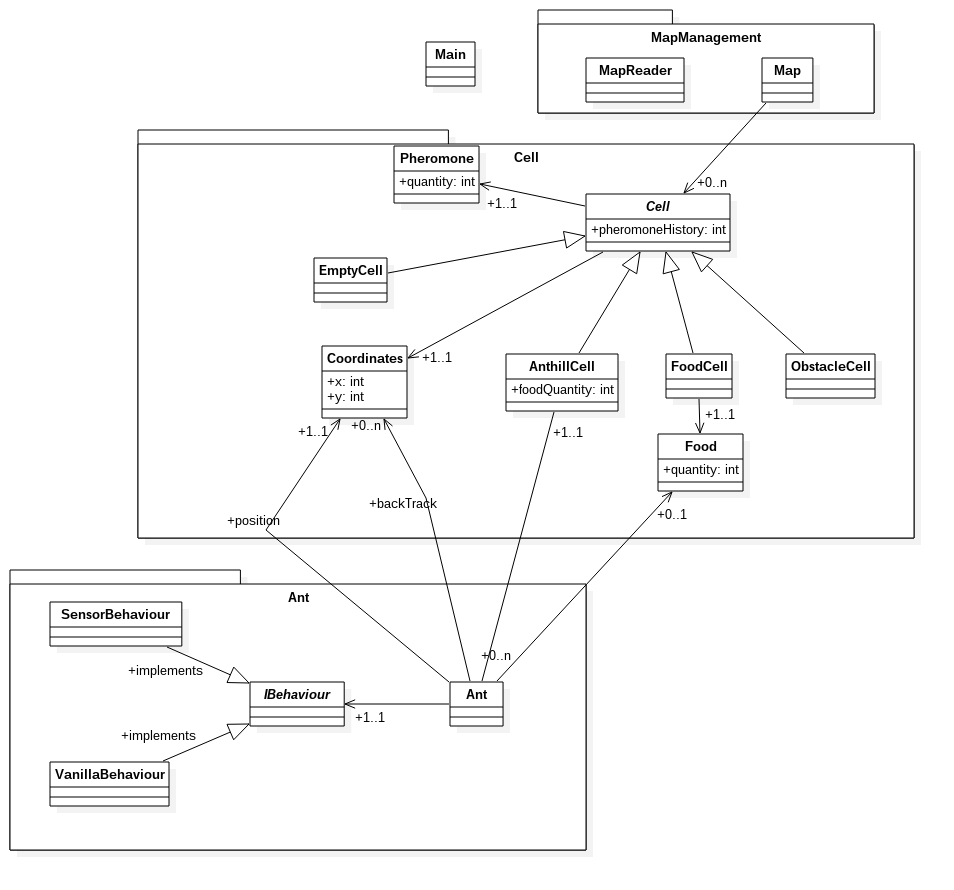
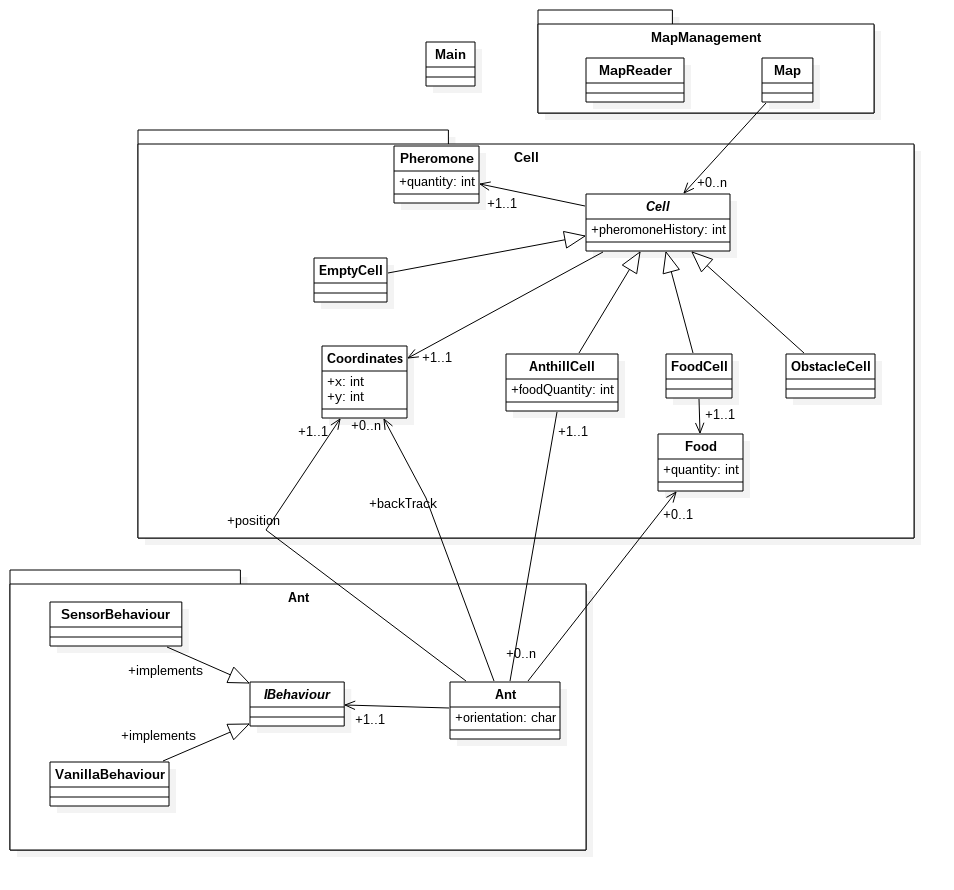
Ajout orientation ant

diff --git a/src/Ant/Ant.java b/src/Ant/Ant.java
@@ -6,6 +6,7 @@ import Cell.Coordinates;
 import Cell.Food;
 
 import java.util.ArrayList;
+import java.util.Random;
 
 /**
  * Created by felix on 03/01/17.
@@ -16,12 +17,54 @@ public class Ant {
     private AnthillCell antHill;
     private Food food;
     private IBehaviour behaviour;
+    private char orientation;
 
+    /**
+     * Constructeur dans le cas où l'orientation n'est pas donnée. Elle est donc donnée aléatoirement
+     * @param position
+     * @param antHill
+     * @param behaviour
+     */
     public Ant(Coordinates position, AnthillCell antHill, IBehaviour behaviour) {
         this.position = position;
         this.antHill = antHill;
         this.behaviour = behaviour;
         this.backTrack = new ArrayList<Coordinates>();
+
+        Random r = new Random();
+        int i = r.nextInt(3);
+        switch(i) {
+            case 0 :
+                this.orientation = 'U';
+                break;
+            case 1 :
+                this.orientation = 'D';
+                break;
+            case 2 :
+                this.orientation = 'R';
+                break;
+            case 3 :
+                this.orientation = 'L';
+                break;
+            default :
+                this.orientation = 'U';
+                break;
+        }
+    }
+
+    /**
+     * Constructeur avec orientation donnée en paramètre
+     * @param position
+     * @param antHill
+     * @param behaviour
+     * @param orientation
+     */
+    public Ant(Coordinates position, AnthillCell antHill, IBehaviour behaviour, char orientation) {
+        this.position = position;
+        this.antHill = antHill;
+        this.behaviour = behaviour;
+        this.backTrack = new ArrayList<Coordinates>();
+        this.orientation = orientation;
     }
 
     public Coordinates getPosition() {
